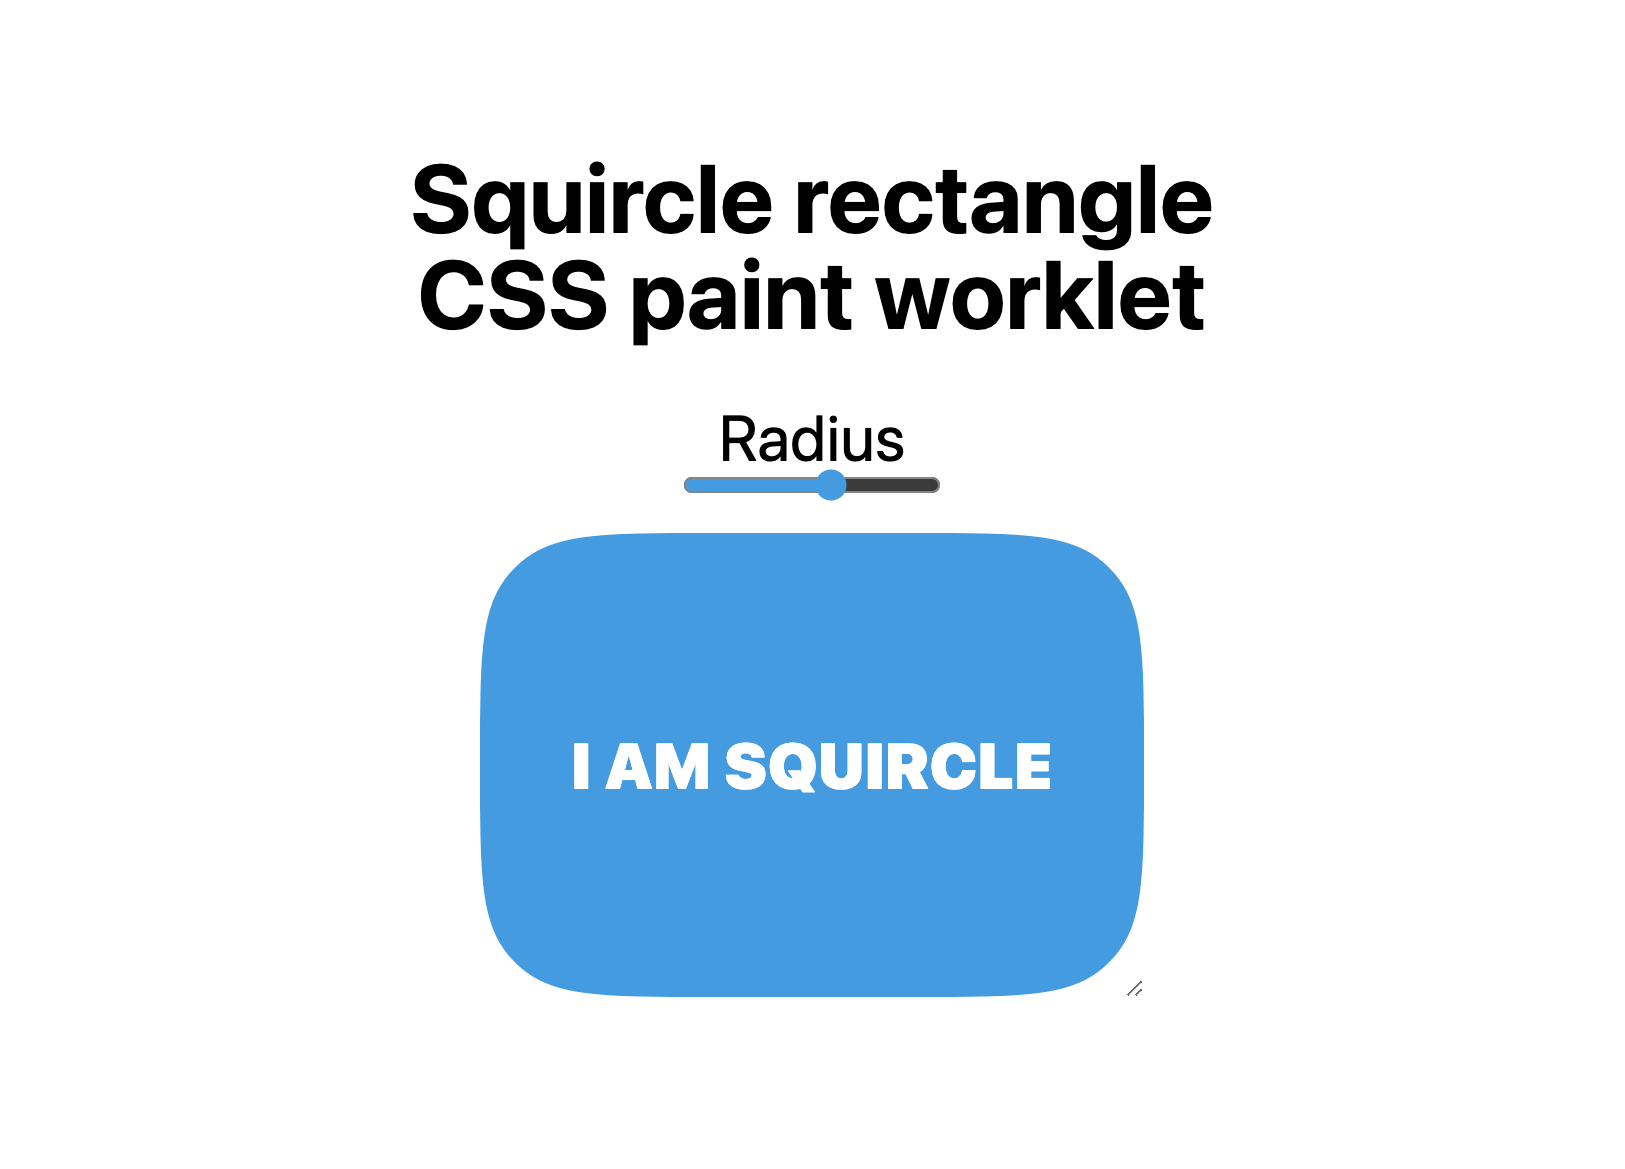
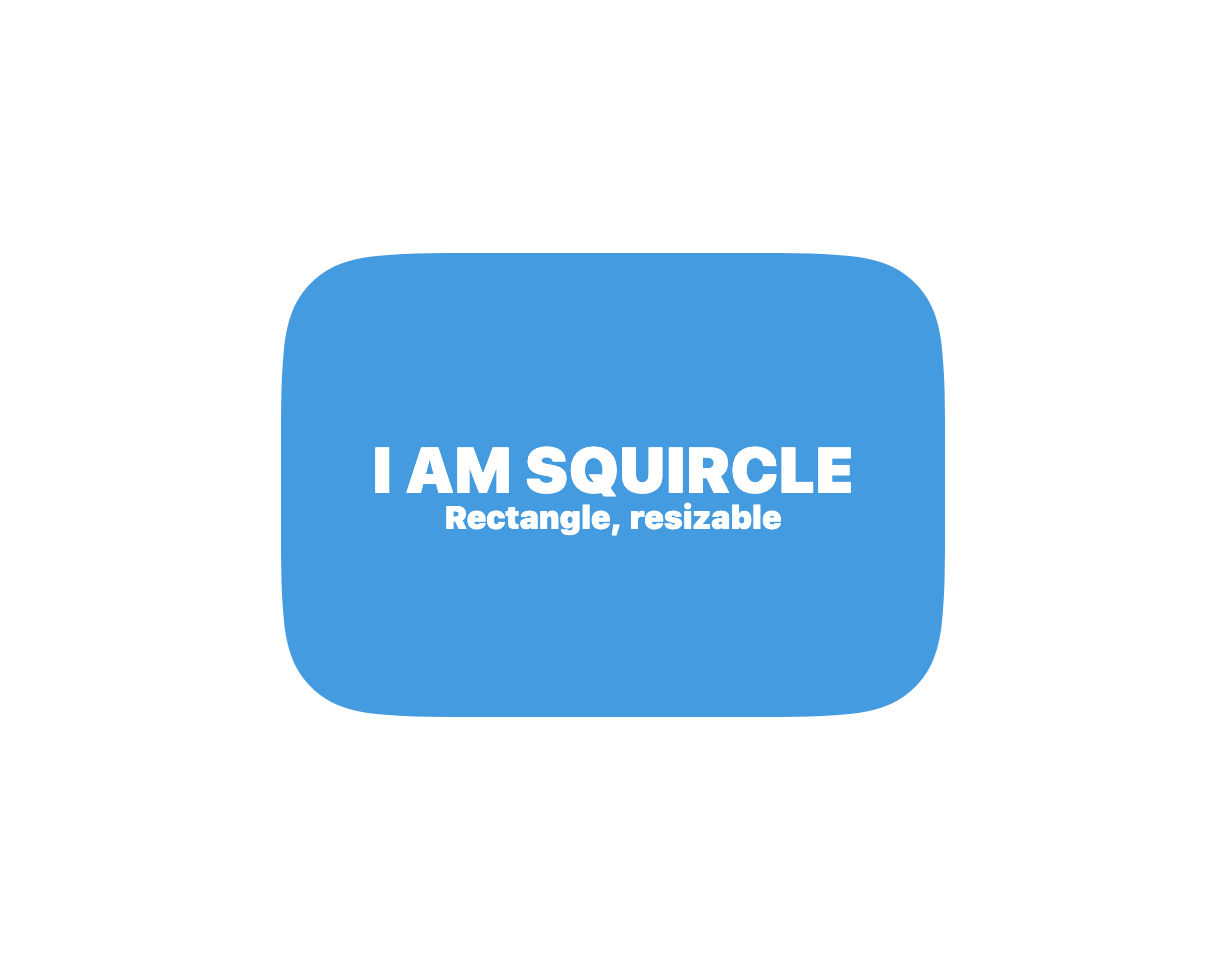
Some better comments etc

Changed region(s): [[0.217, 0.1237, 0.7749, 0.866], [0.3409, 0.6186, 0.6509, 0.6804]]

diff --git a/index.html b/index.html
@@ -23,15 +23,26 @@
     <input type="range" min=0 max=200 id="radius-input">
     <div class="squircle-rect">
       I AM SQUIRCLE
+      <br>
+      <small>Rectangle, resizable</small>
     </div>
-    <a href="https://twitter.com/sakamies">Twitter</a>
-    <a href="https://mastodon.social/@sakamies">Mastodon</a>
-    <a href="https://github.com/sakamies/squircle-rect">Github</a>
+    <p>
+      <small>Try resizing from the handle (on desktop) ⤴</small>
+    </p>
+    <p class="links">
+      <a href="https://twitter.com/sakamies">Twitter</a>
+      <a href="https://mastodon.social/@sakamies">Mastodon</a>
+      <a href="https://github.com/sakamies/squircle-rect">Github</a>
+    </p>
   </div>
 
+  <!-- Polyfill browsers that don't yet support CSS Paint API. -->
   <script src="https://unpkg.com/css-paint-polyfill"></script>
   <script>
+    //Import CSS Paint Worklet module.
     CSS.paintWorklet.addModule('/squircle-rect.js')
+
+    //Demo stuff
     const radiusInput = document.querySelector('#radius-input')
     const squirclerect = document.querySelector('.squircle-rect')
     function setRadius (e) {
@@ -44,6 +55,45 @@
   <style>
     :root {
       --cc: #009de6;
+    }
+    /* Some niceness for later, when browser support is all there.
+      @property --squircle-radius {
+      syntax: '<integer>';
+      inherits: true;
+      initial-value: 0;
+    }
+    @property --squircle-smooth {
+      syntax: '<integer>';
+      inherits: true;
+      initial-value: .5;
+    }
+    @property --squircle-color {
+      syntax: '<string>';
+      inherits: true;
+    }
+    */
+    .squircle-rect {
+      font-size: 2rem;
+      font-weight: 900;
+      display: grid;
+      place-content: center;
+      place-items: center;
+      color: white;
+
+      /*The actual bit about the squircle*/
+      --squircle-color: var(--cc);
+      --squircle-radius: 100;
+      --squircle-smooth: .5; /*TODO: Smoothing parameter*/
+      background: paint(squircle-rect);
+      /*-------*/
+
+      resize: both;
+      overflow: hidden;
+      width: 300px;
+      height: 200px;
+      margin: 0 0 1rem 0;
+      padding: 1rem;
+      max-width: 100%;
     }
     html, body {
       height: 100%;
@@ -62,53 +112,28 @@
       font-size: 3rem;
       margin: 2rem 0 2rem 0;
     }
+    p {
+      margin: 0 0 2rem 0;
+    }
+    small {
+      font-size: 1rem;
+    }
     a {
-      font-size: 1.5rem;
       color: var(--cc);
-      margin: 0 0 .5rem 0;
     }
     input {
       accent-color: var(--cc);
       margin: 0 0 1rem 0;
     }
-/*     @property --squircle-radius {
-      syntax: '<integer>';
-      inherits: true;
-      initial-value: 0;
-    }
-    @property --squircle-smooth {
-      syntax: '<integer>';
-      inherits: true;
-      initial-value: .5;
-    }
-    @property --squircle-color {
-      syntax: '<string>';
-      inherits: true;
-    } */
     .content {
       display: grid;
       place-content: center;
       place-items: center;
       margin: auto;
     }
-    .squircle-rect {
-      font-size: 2rem;
-      font-weight: 900;
-      display: grid;
-      place-content: center;
-      place-items: center;
-      color: white;
-      --squircle-color: var(--cc);
-      --squircle-radius: 100;
-      --squircle-smooth: .5;
-      background: paint(squircle-rect);
-      resize: both;
-      overflow: hidden;
-      width: 300px;
-      height: 200px;
-      margin: 0 0 2rem 0;
-      padding: 1rem;
-      max-width: 100%;
+    .links {
+      font-size: 1.25rem;
+      margin: 0 0 .75rem 0;
     }
   </style>
 </body>
